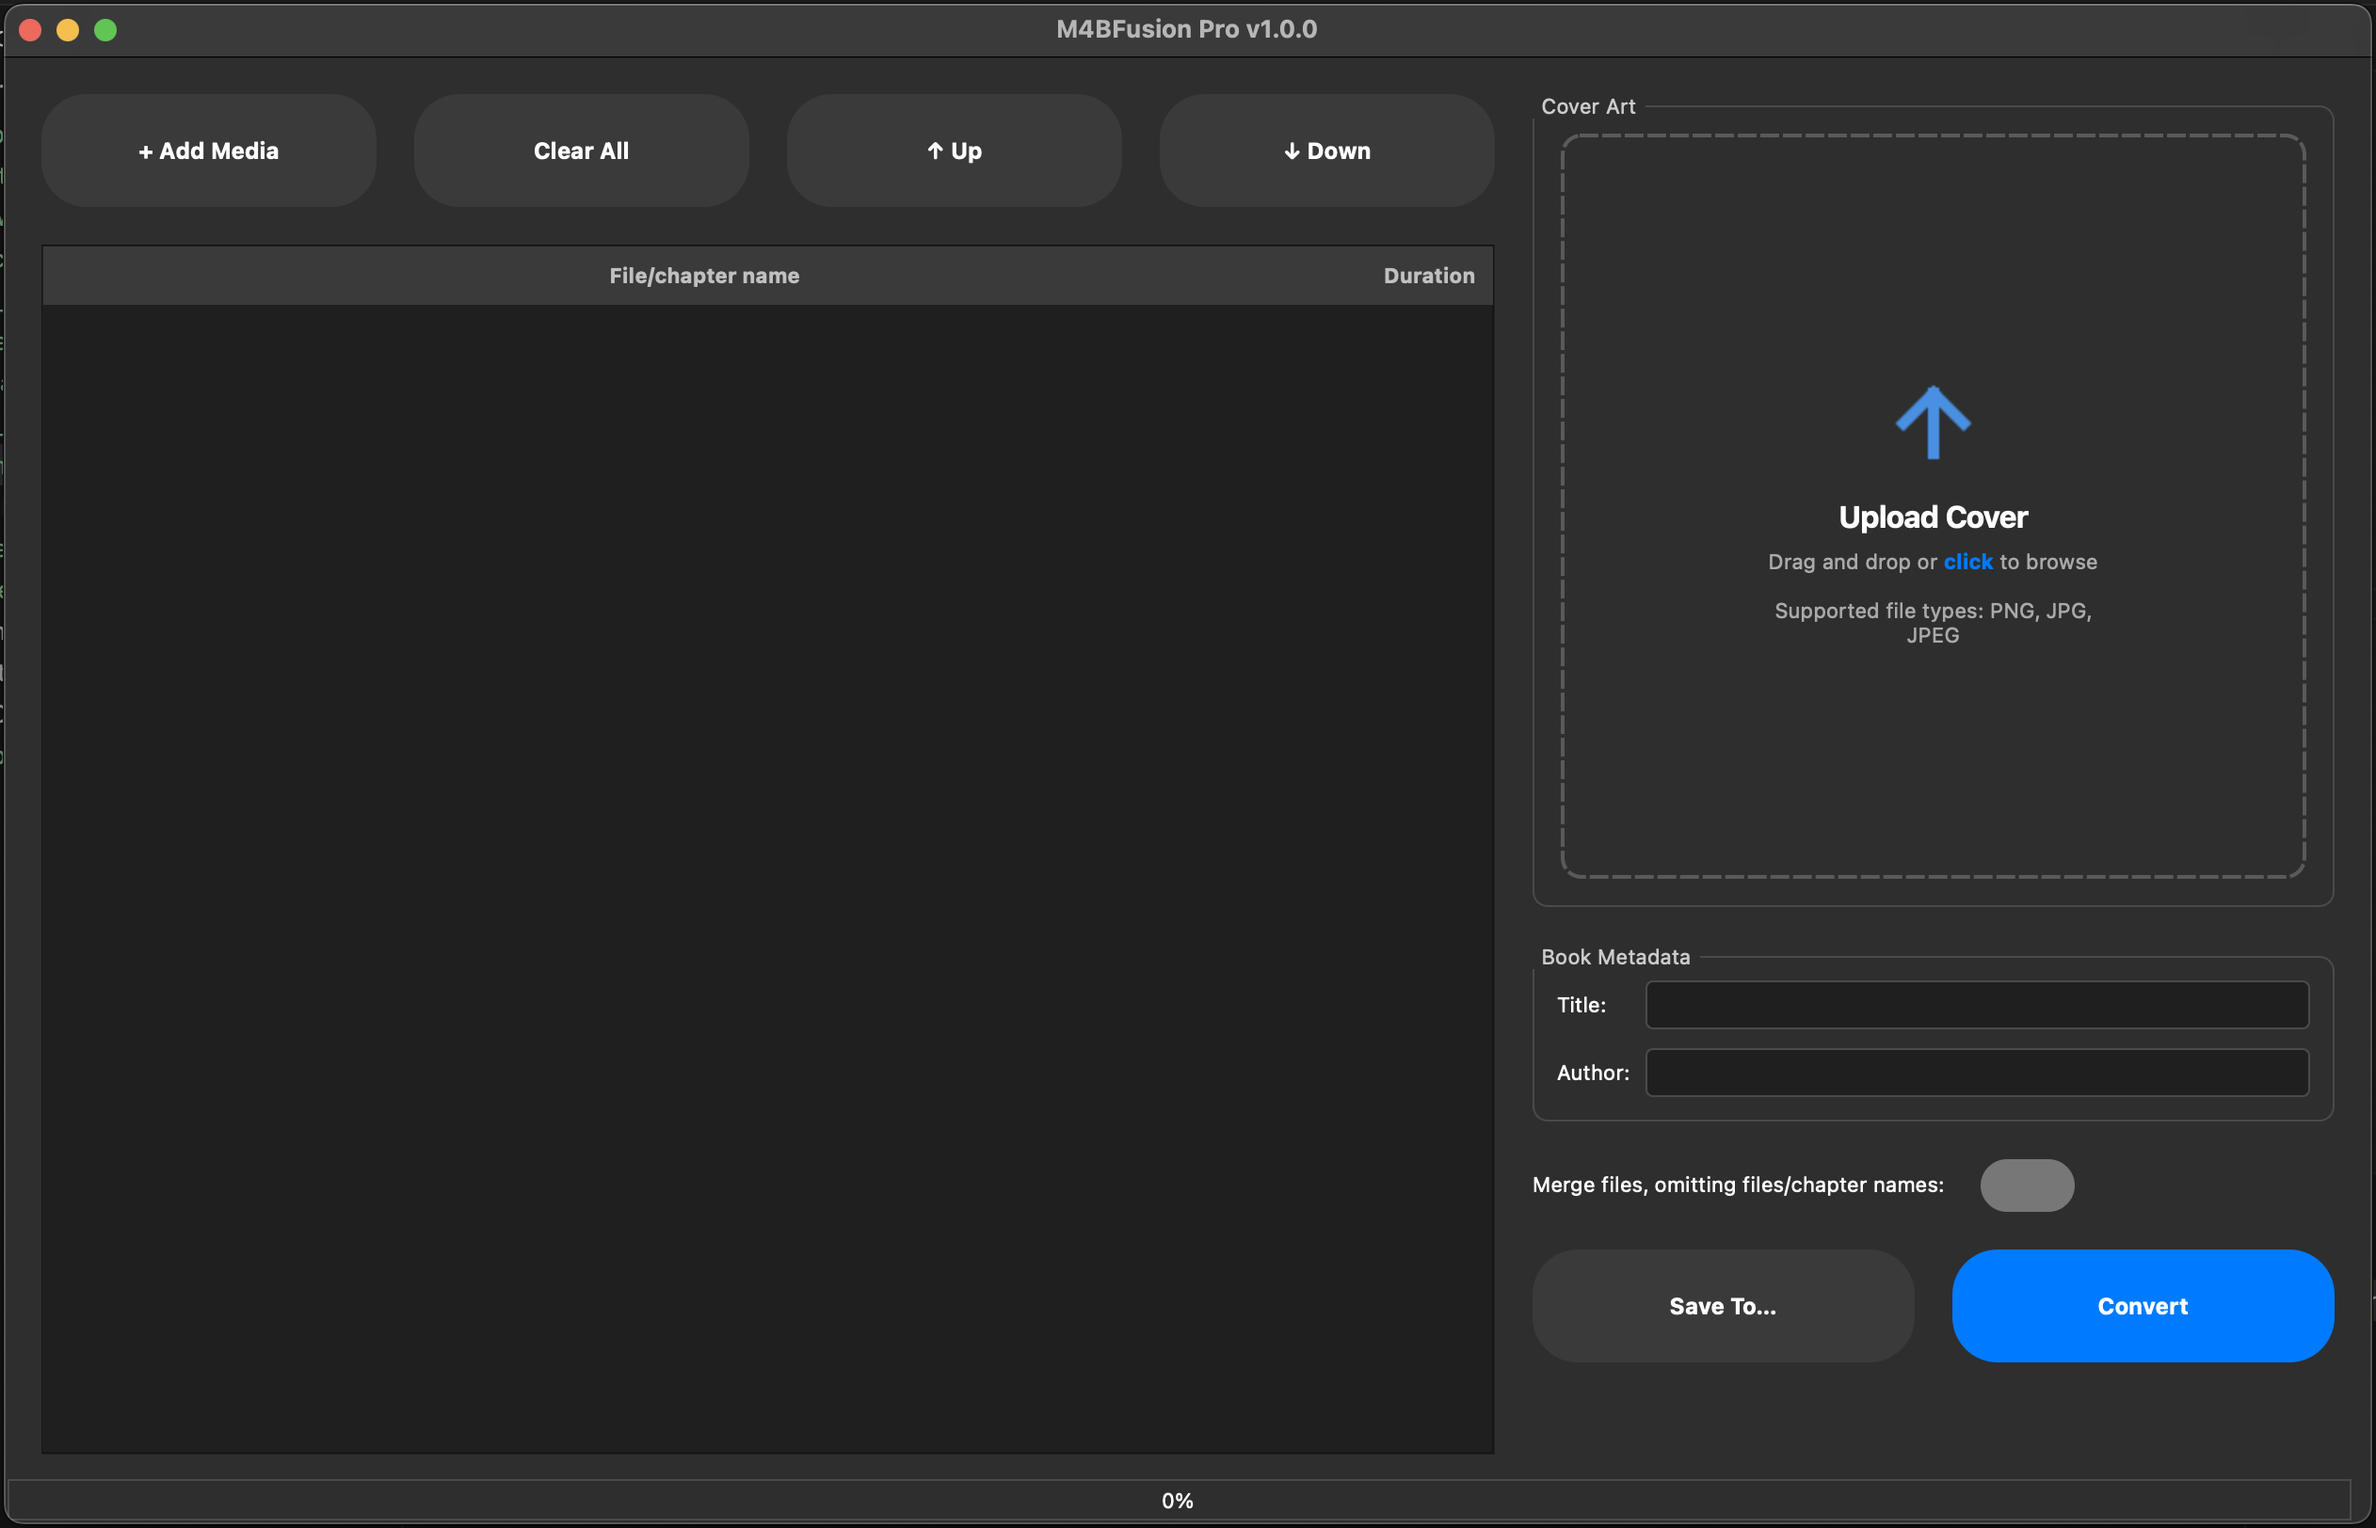
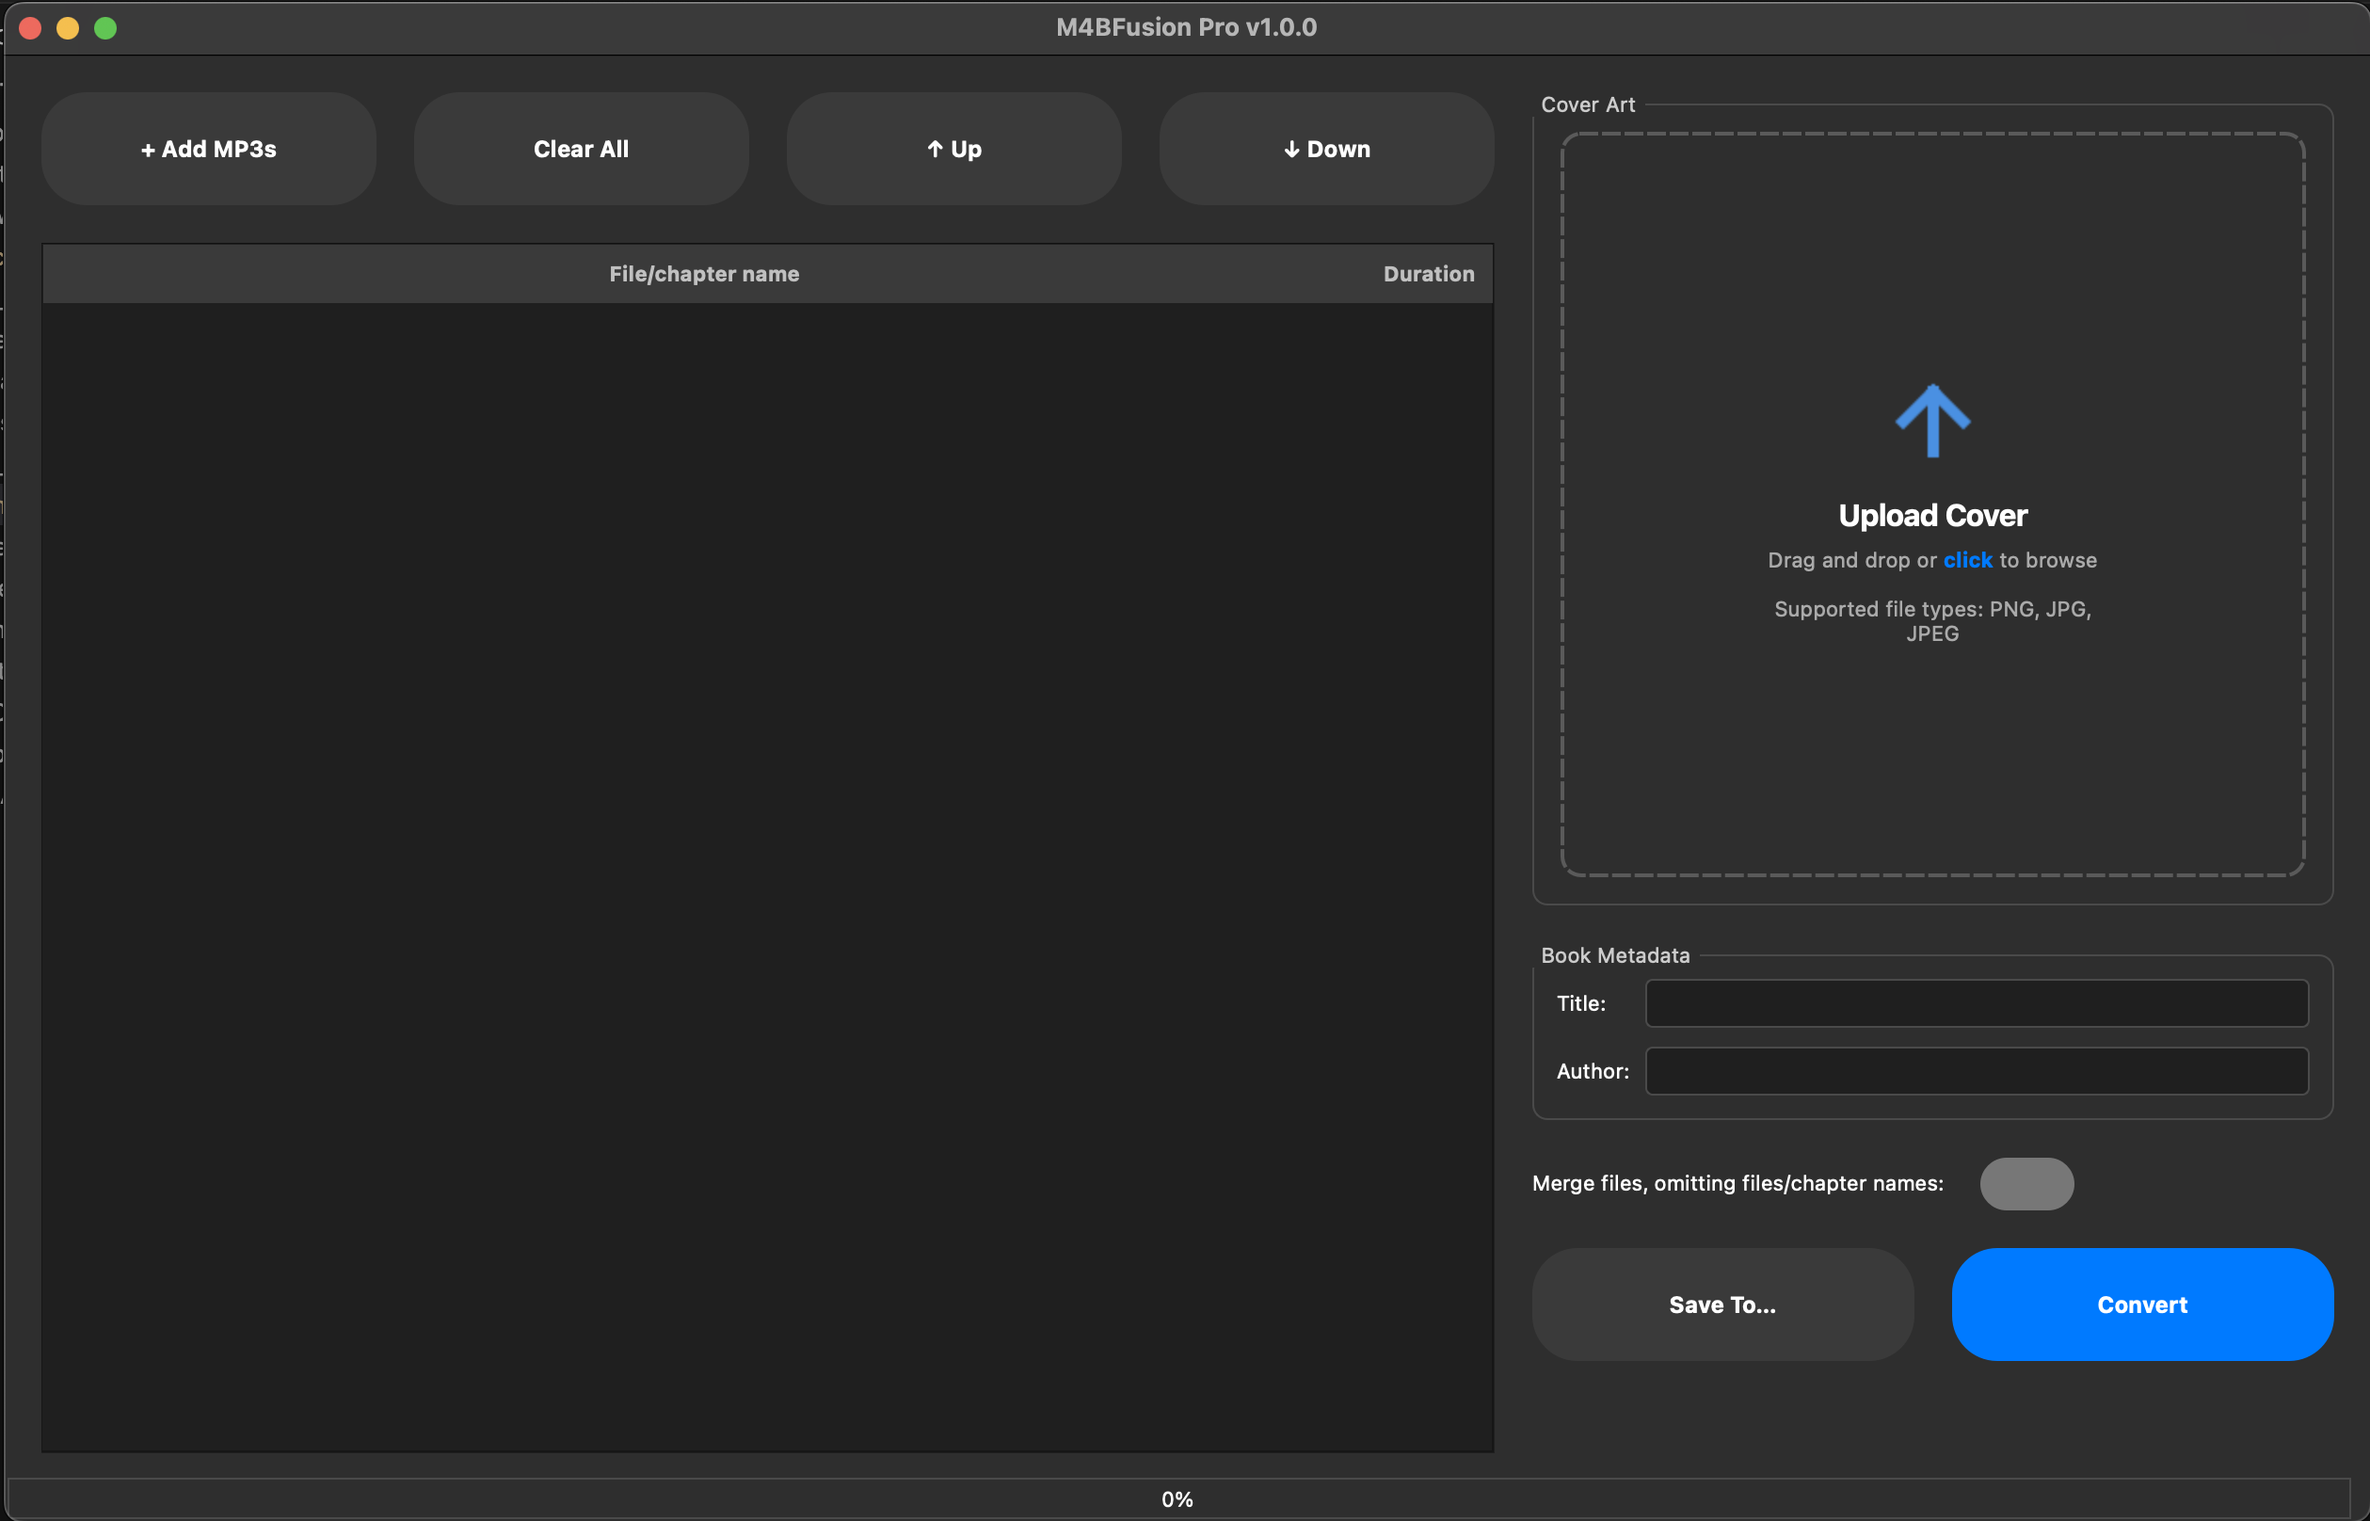
update screenshot

diff --git a/src/main.py b/src/main.py
@@ -301,7 +301,7 @@ class M4BFusionPro(QMainWindow):
         btn_row = QHBoxLayout()
         layout.addLayout(btn_row)
 
-        self.btn_add_media = QPushButton("+ Add Media")
+        self.btn_add_media = QPushButton("+ Add MP3s")
         self.btn_add_media.clicked.connect(self.on_add_media)
         btn_row.addWidget(self.btn_add_media)
 
